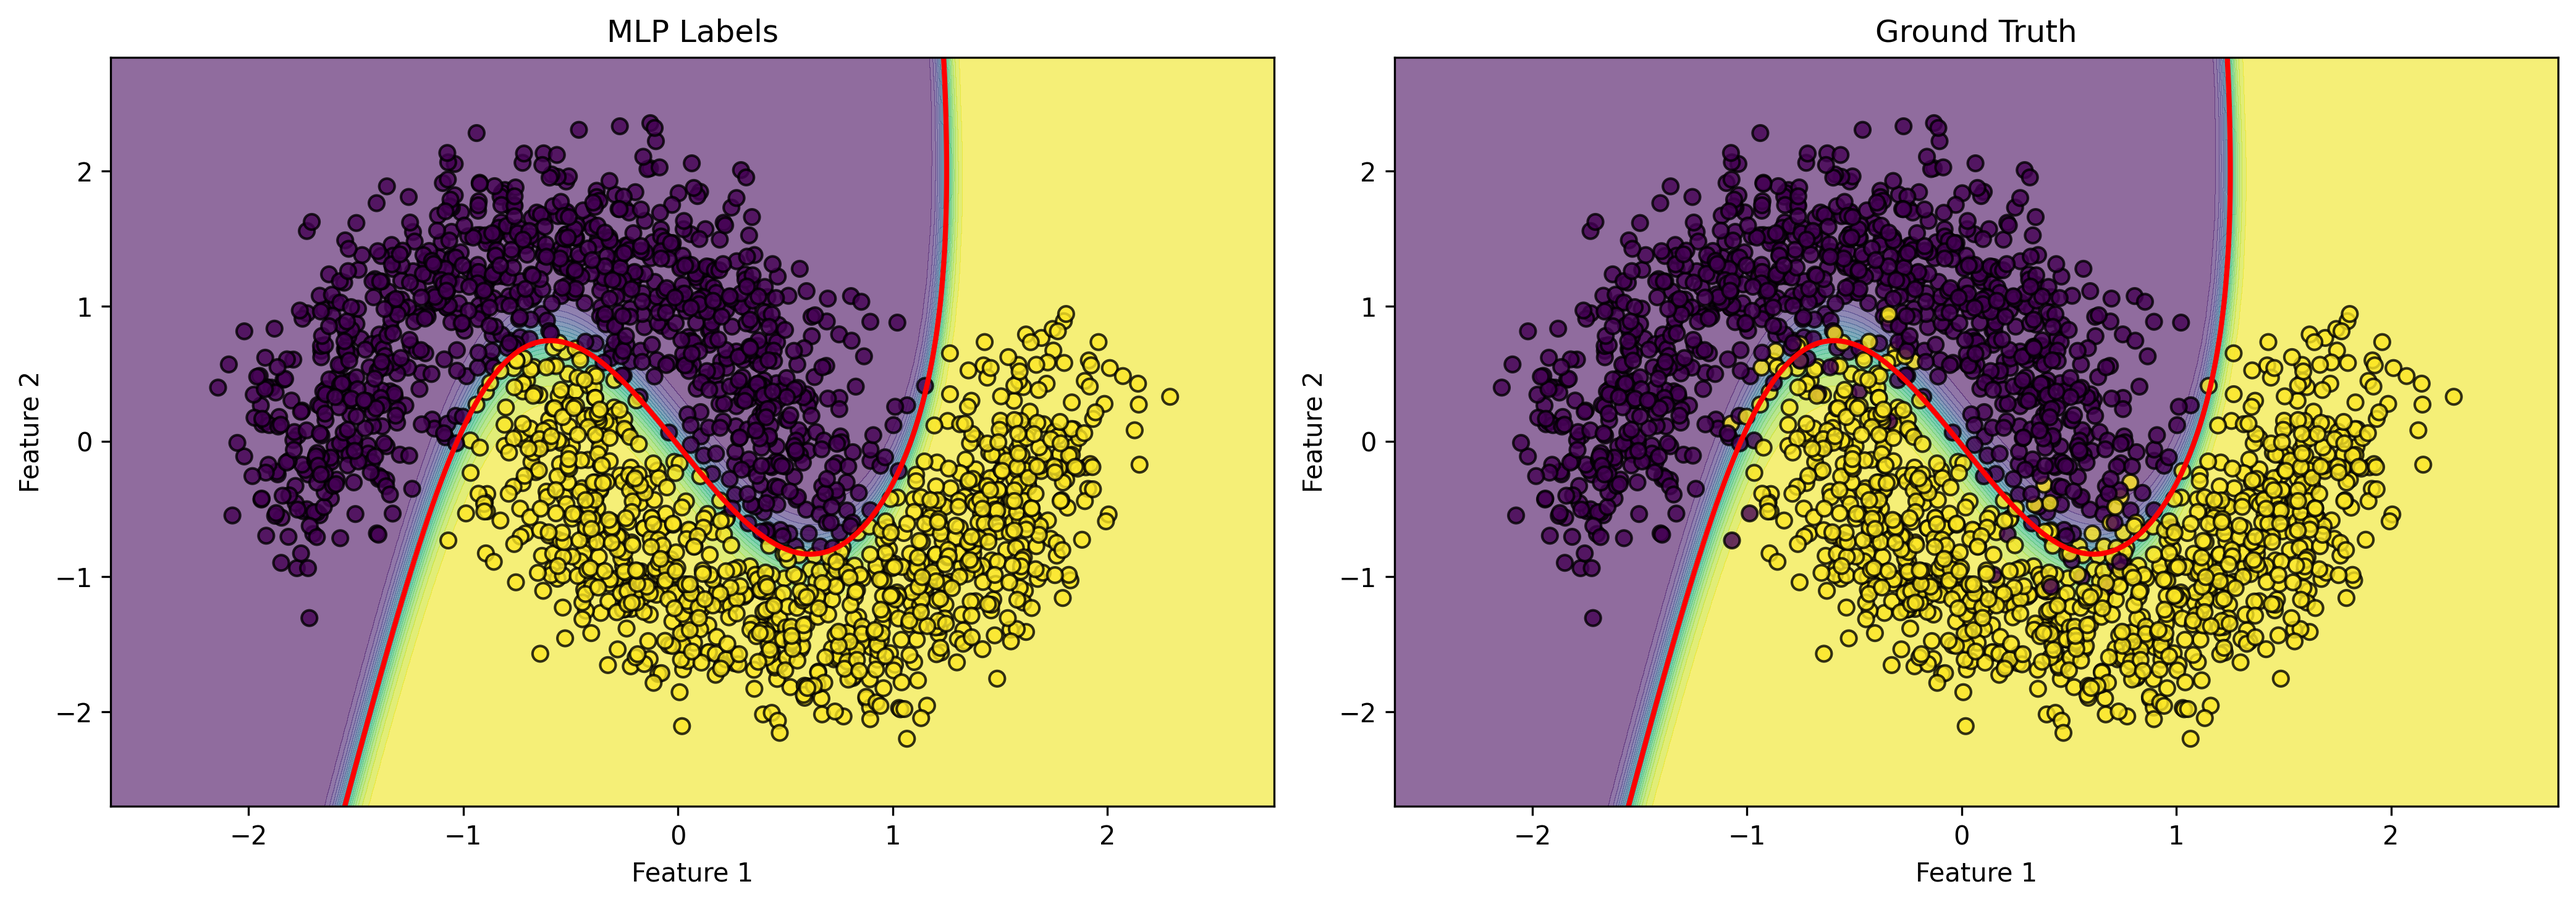
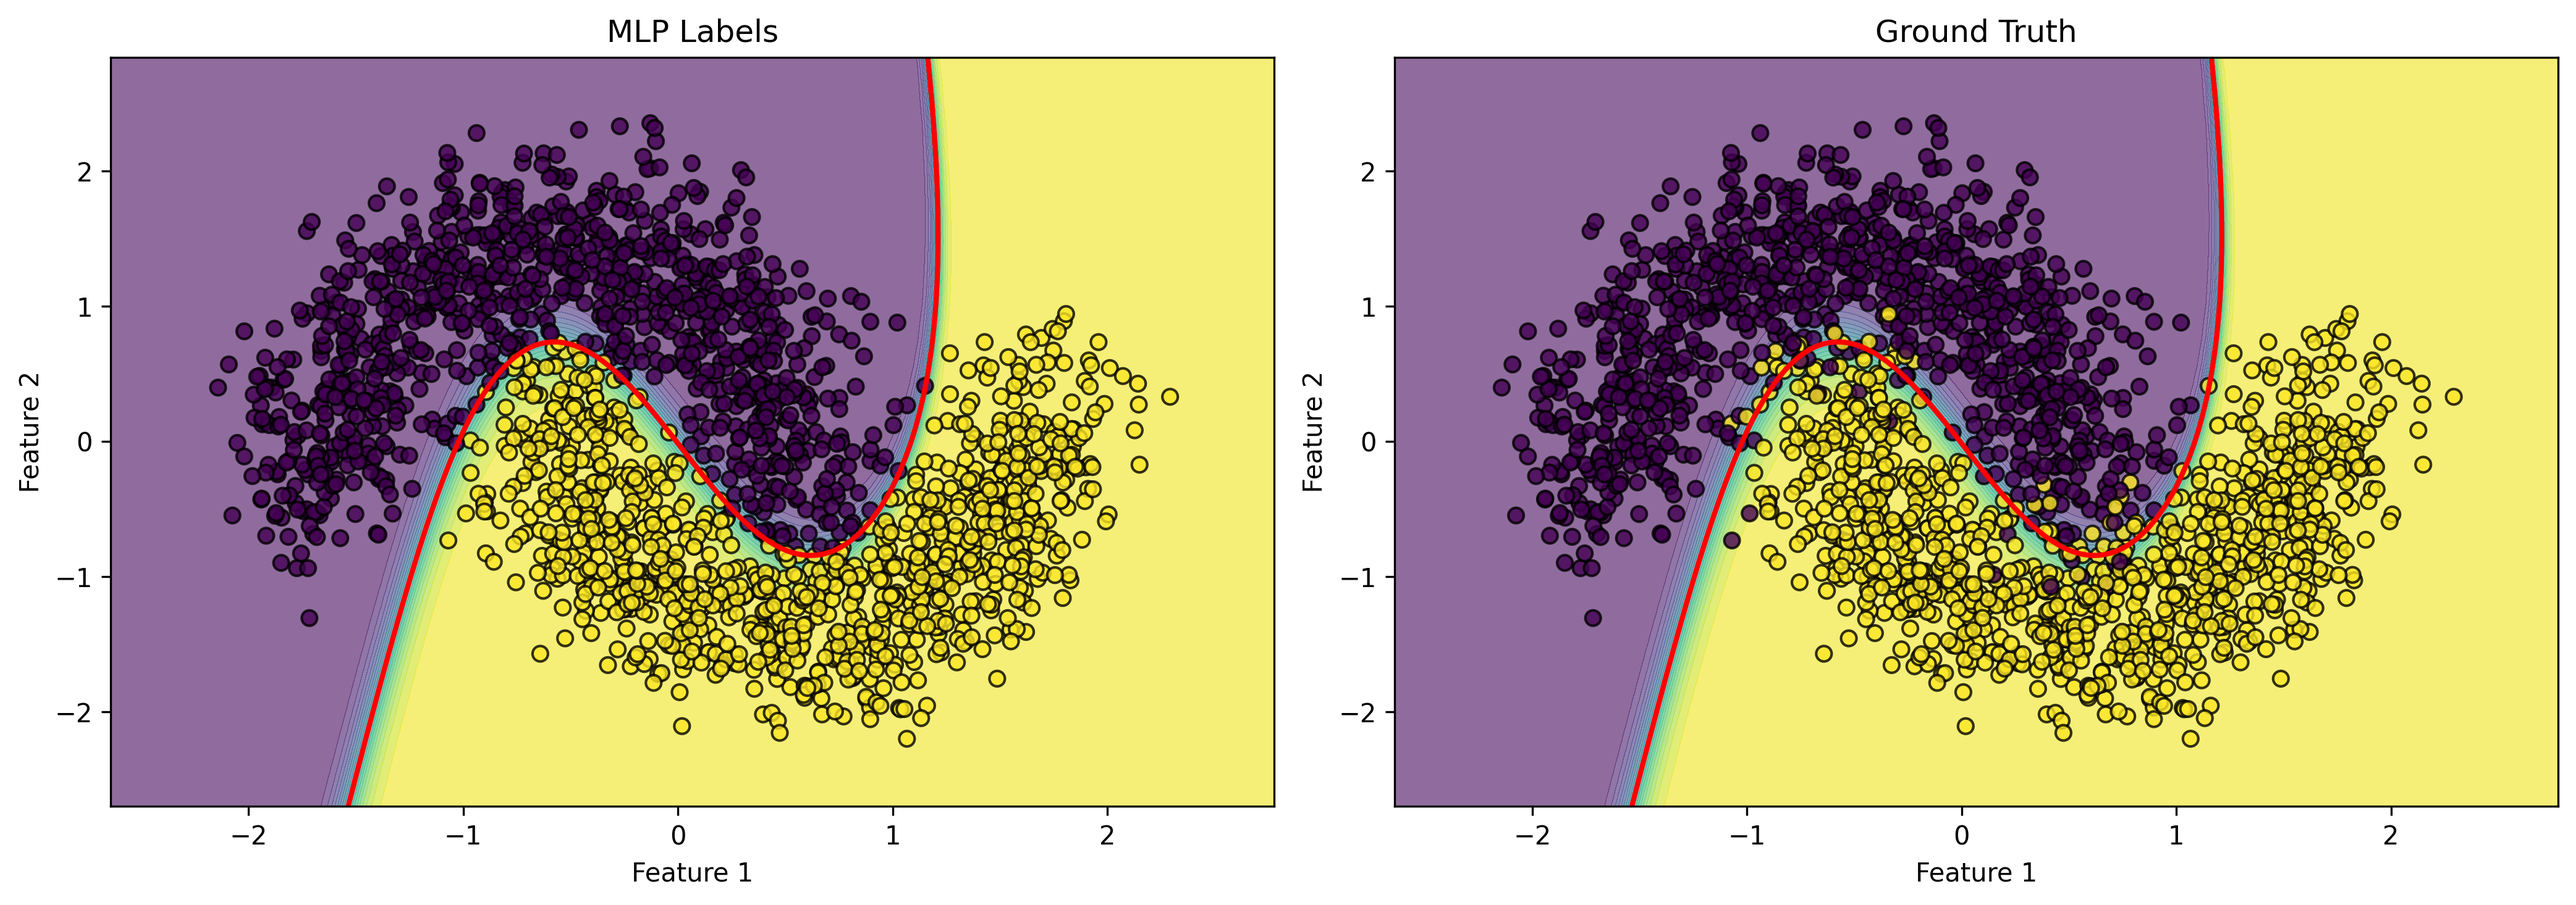
Truncated training

diff --git a/README.md b/README.md
@@ -52,7 +52,7 @@ Most tutorials use frameworks that hide the math. This notebook **shows you the 
 ✨ **Heavily commented code** - Every line explains what and why
 📊 **Visualizations** - See the training data, loss curves, and decision boundaries
 🔬 **Mathematical explanations** - Gradient formulas and activation derivatives included
-🎯 **97%+ accuracy** - Watch the network learn to separate the moons!
+🎯 **96.60% accuracy** - Watch the network learn to separate the moons in just 5,000 epochs!
 
 ## 🌙 The Moons Dataset
 
@@ -65,7 +65,7 @@ The notebook uses scikit-learn's `make_moons` dataset - two interleaving half-ci
 
 ### Training Progress
 
-Watch the network learn! The loss curve shows how the model improves over 50,000 epochs:
+Watch the network learn! The loss curve shows how the model improves over 5,000 epochs:
 
 ![Training Loss](figures/training_loss.png)
 *Loss decreases exponentially as the network learns the pattern*
@@ -75,7 +75,43 @@ Watch the network learn! The loss curve shows how the model improves over 50,000
 See what the network learned! The decision boundary shows how the MLP separates the two classes:
 
 ![Decision Boundary](figures/decision_boundary.png)
-*Left: MLP predictions | Right: Ground truth - The network achieves 97%+ accuracy!*
+*Left: MLP predictions | Right: Ground truth - The network achieves 96.60% accuracy!*
+
+## 🚀 Further Learning
+
+Now that you understand the fundamentals, here are ways to deepen your knowledge:
+
+### 🔧 Experiments to Try
+
+- **Add more layers** - Try a 2-8-4-1 architecture. How does depth affect learning?
+- **Different activations** - Replace sigmoid with ReLU or tanh. What changes?
+- **Change the dataset** - Try `make_circles` or `make_classification` from scikit-learn
+- **Implement momentum** - Add momentum to gradient descent for faster convergence
+- **Try different loss functions** - Implement Binary Cross-Entropy instead of MSE
+- **Add regularization** - Implement L2 regularization to prevent overfitting
+
+### 📚 Recommended Resources
+
+**Video Series:**
+- 🎥 [3Blue1Brown - Neural Networks](https://www.youtube.com/playlist?list=PLZHQObOWTQDNU6R1_67000Dx_ZCJB-3pi) - Beautiful visualizations of how neural networks work
+- 🎥 [Andrej Karpathy - Neural Networks: Zero to Hero](https://www.youtube.com/watch?v=VMj-3S1tku0) - Build neural nets from scratch
+
+**Interactive Learning:**
+- 🎮 [TensorFlow Playground](https://playground.tensorflow.org/) - Interactive neural network visualization
+- 📖 [Neural Networks and Deep Learning](http://neuralnetworksanddeeplearning.com/) - Free online book
+
+**Next Steps:**
+- Learn about **Convolutional Neural Networks (CNNs)** for image processing
+- Explore **Recurrent Neural Networks (RNNs)** for sequence data
+- Study **PyTorch's autograd** to see how automatic differentiation works
+- Dive into **optimization algorithms** (Adam, RMSprop, AdaGrad)
+
+### 💡 Challenges
+
+1. Can you achieve >97% accuracy by tuning hyperparameters or training longer?
+2. Can you implement batch training instead of full-batch?
+3. Can you add learning rate decay?
+4. Can you visualize the hidden layer activations?
 
 ---
 
